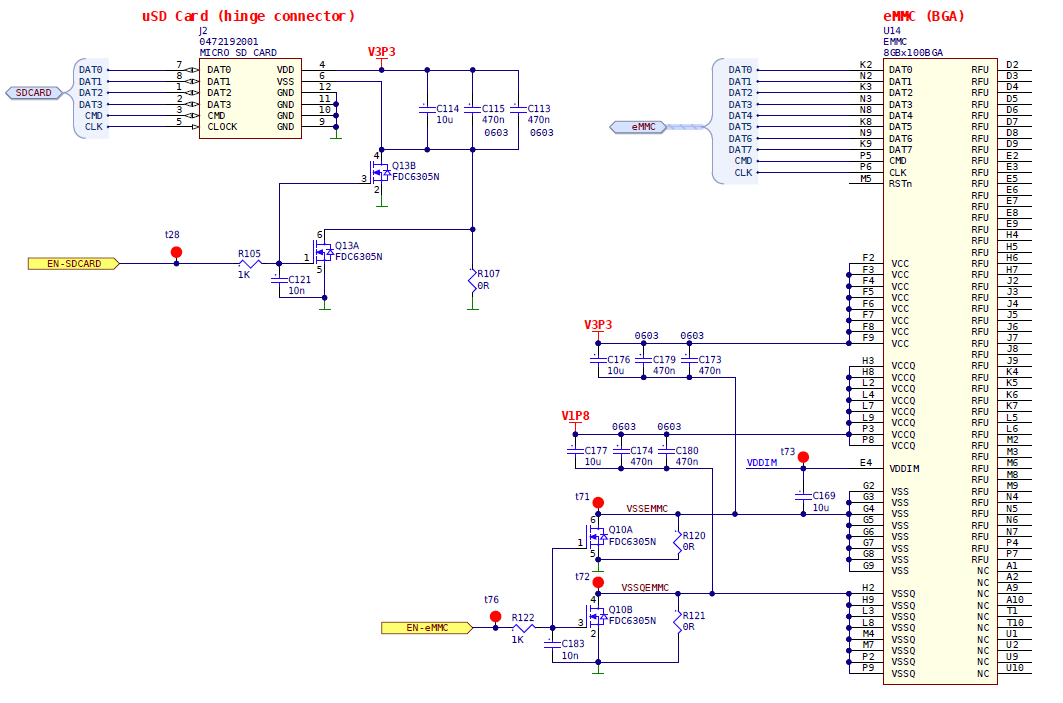
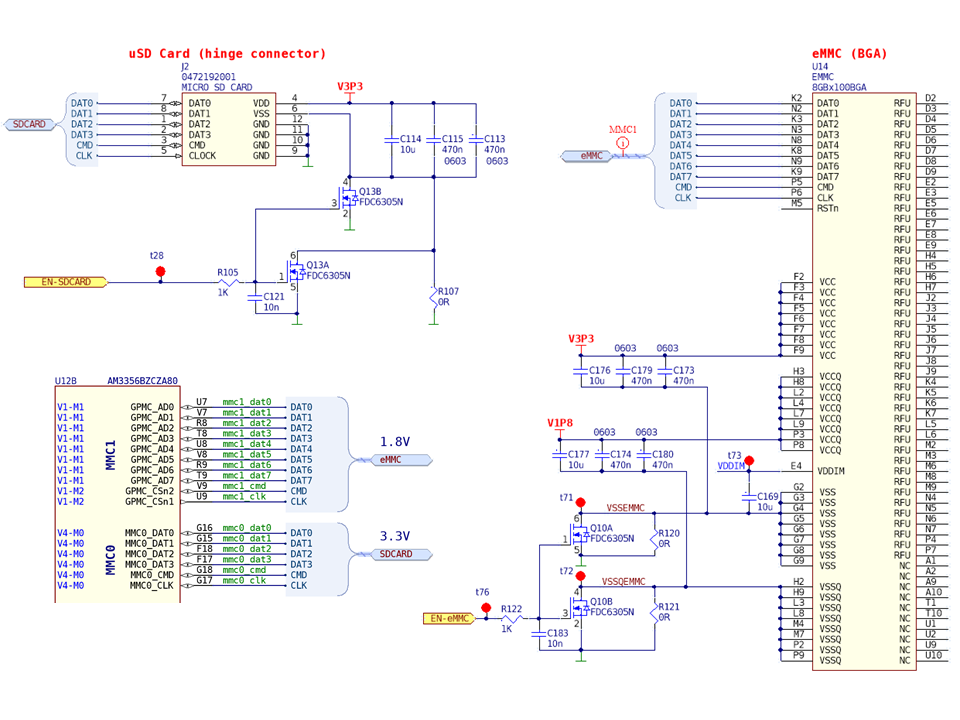
-more content

diff --git a/README.md b/README.md
@@ -611,22 +611,20 @@ SPIB.SCLK  MCASP0_ACLKX  spi0_sclk   A13
 
 - I2C-TRUNK root circuit is compliant with Agathis Trunk Standard. 
 
-- I2C-TRUNK facilitates uP access as master to: 
+- I2C-TRUNK connects uP as master to: 
   - card id eeprom installed on root and branches
-  - uC as slave
+  - uC
   - i2c devices installed on branches
 
 - uC and card id eeprom are supplied from VSB3P3 rail which is always ON; 
   this allows uC access to the eeprom when V3P3 is down.
 
 - level translation and power down separation between uC and uP sides of the 
-  I2C TRUNK bus is implemented with Q2A,B MOSFET.
+  I2C-TRUNK is implemented with Q2A,B MOSFET.
   
-- I2C-TRUNK pull-up in stand-by mode (uC and eeprom) is 10K.
-
 - I2C-TRUNK root pull-up is:
-  - 5K in active mode.
-  - 10K in stand-by.
+  - 6.67K in active mode.
+  - 20K in stand-by.
 
 - I2C-TRUNK root maximum parasitic capacitance is 4pF (uP) + 8pF (eeprom) + 
   10pF (uC) +  25pF (PCB) + 5pF (connector) for a total of 52pF; 
@@ -654,7 +652,19 @@ SPIB.SCLK  MCASP0_ACLKX  spi0_sclk   A13
 - the number of identical i2c devices in a gateway (I2C-TRUNK) is limited to 
   two to the power of the number of device address pins connected to KNOT.0,1,2; 
   these devices shall be on branches installed in a contiguous block in the 
-  gateway.
+  gateway:
+  - if A0,1,2 address bits are exposed and connected respectivelly to 
+    KNOT.0,1,2 then 8 modules with identical i2c devices (one each) can be used;
+    this is the particular case of the card id eeprom; other i2c with same access
+    to A2,A1,A0 address bits lead to same maximized usability.
+  - if only A0,1 address bits are exposed and connected respectivelly to 
+    KNOT.0,1 then 4 branches with identical i2c devices (one each) can be used;
+    these branches need to be installed in a contiguous block in the gateway.
+  - if only A0 address bit is exposed and connected to KNOT.0, then 2 branches
+    with identical i2c device (one each) can be used; these branches need to be 
+    installed in a contiguous block in the gateway.
+  - if no address bit is exposed and connected to KNOT, then only one such
+    branch per gateway is allowed.
 
 ``` 
 I2C-TRUNK signal allocation table
@@ -680,7 +690,8 @@ SDA     PC0     H6     I2C0_SDA   C17
 
 - the devices connected directly to these USB ports must be permanently 
   attached (embedded); if these ports need to exit the gateway to external 
-  devices, then use a hub on that branch.
+  devices, then use a hub on that branch connected up-stream to USB.A and 
+  connect the down-stream ports to the external world.
 
 
 ***
@@ -688,25 +699,52 @@ SDA     PC0     H6     I2C0_SDA   C17
 #### 3.3.5. LPDDR Memory:
 ![alt text](https://github.com/agathis-project/salix-arctica/blob/master/AP-1/uP_LPDDR.PNG)
 
-- The root to module uses a MT46H128M16LFDD LPDDR (mDDR) 128M x 16 manufactured by 
-  Micron; this memory was chosen for its low power consumption, especially for
-  the low power consumption during self-refresh mode; the main criteria being 
-  *what the memory is consuming when the system is doing nothing.
+- main RAM selection contraints:
+  - supported by up AM335x
+  - lowest self-refresh current consumption
+  - large enough to run a Linux major distribution
 
-- The second major criteria for RAM selection was the capability to run a major
-  Linux distro, like Debian; 256MB offered by MT46H128M16LFDD was considered 
-  appropriate given the intended system usage.
-  
-- This memory is organized as 128M words of 16 bit.
+- use MT46H128M16LFDD LPDDR (mDDR) 128M x 16 (256MB) manufactured by Micron; 
 
 - The routing of DDR signals follow the AM335x datasheet recommendations.
-
 
 ***
 
 #### 3.3.6. eMMC and SD-Card Memories:
-![alt text](https://github.com/agathis-project/salix-arctica/blob/master/AP-1/uP_emmc_sdcard.PNG)
 ![alt text](https://github.com/agathis-project/salix-arctica/blob/master/AP-1/emmc_sdcard.PNG)
+
+- the eMMC memory is a 8GB flash MTFC8GACAANA-4M IT by Micron; it integrates a 
+  MultiMediaCard and NAND Flash in a 100-Ball package:
+
+  - connected to port mmc1 on AM3356 uP using 1.8V signaling interface.
+  
+  - use SYSBOOT[4:0] = 11100 to boot from eMMC.
+  
+  - the device is operated from V3P3 and V1P8; the power supply is turned off 
+    by cutting the VSS and VSSQ lines; assert EN-eMMC signal HIGH to turn-on 
+	the power.
+  
+  - the hardware reset is not used - use power-up and software reset instead.
+  
+  - AM335x microprocessors support MMC4.3; later versions of the MMC standard 
+    are backwards compatible; virtually any eMMC memory in 100Ball package 
+	should fit the design.
+	
+  - transfer speed up to 48MByte/s
+  
+- the SD-Card memory use a hinge micro-SD card socket and any uSD card should fit the bill
+  
+  - connected to port mmc0 on AM3356 uP using 3.3V signaling interface.
+  
+  - the device is operated from V3P3; the power supply is turned off by cutting 
+    the VSS line; assert EN-SDCARD signal HIGH to turn-on the power.
+	
+  - see "SYSBOOT configuration" chapter for booting options.
+  
+  - transfer speed in boot mode: 10MHz or up to 20MByte/s 
+  
+  - transfer speed in normal operation: up to 24MByte/s
+  
 
 ***
 
